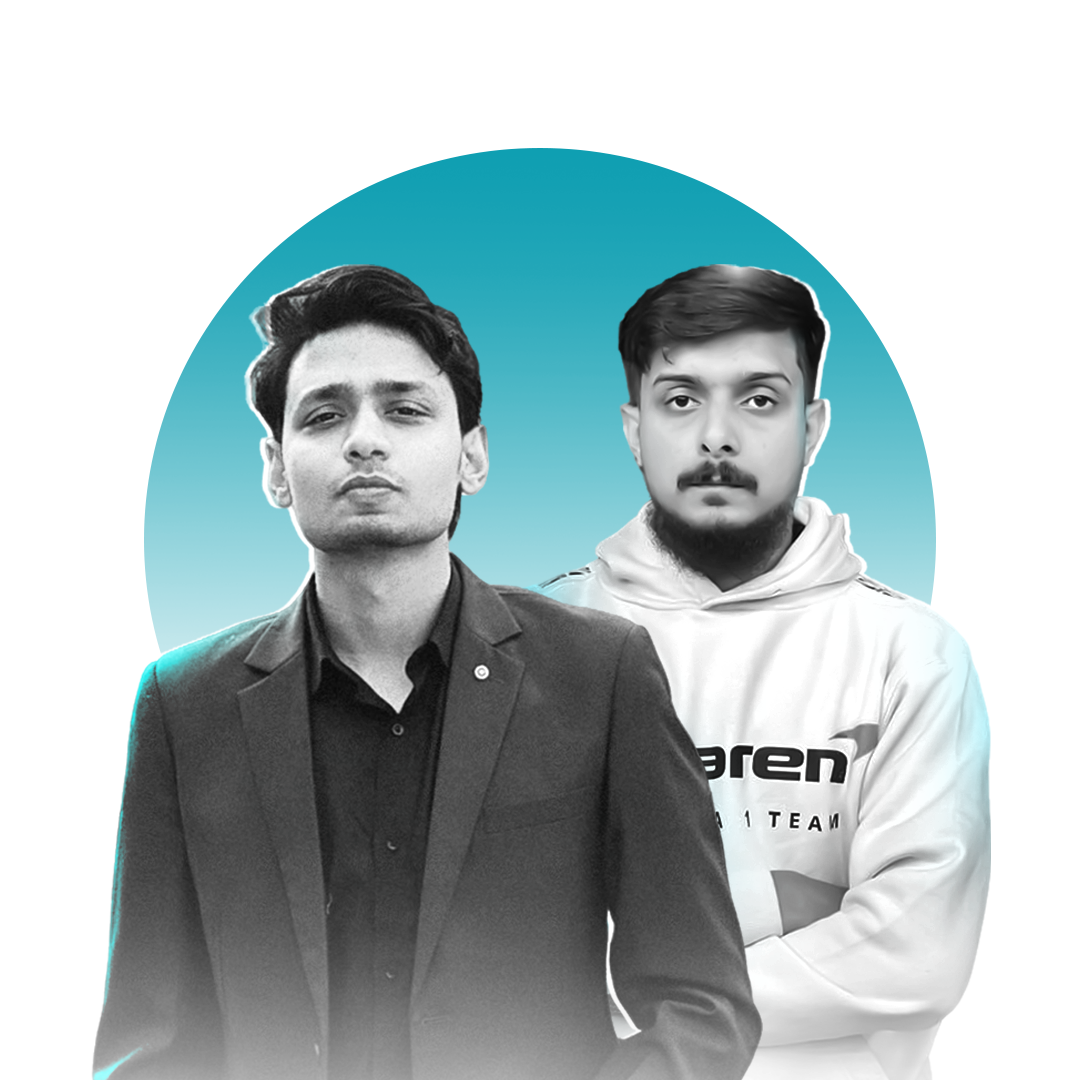
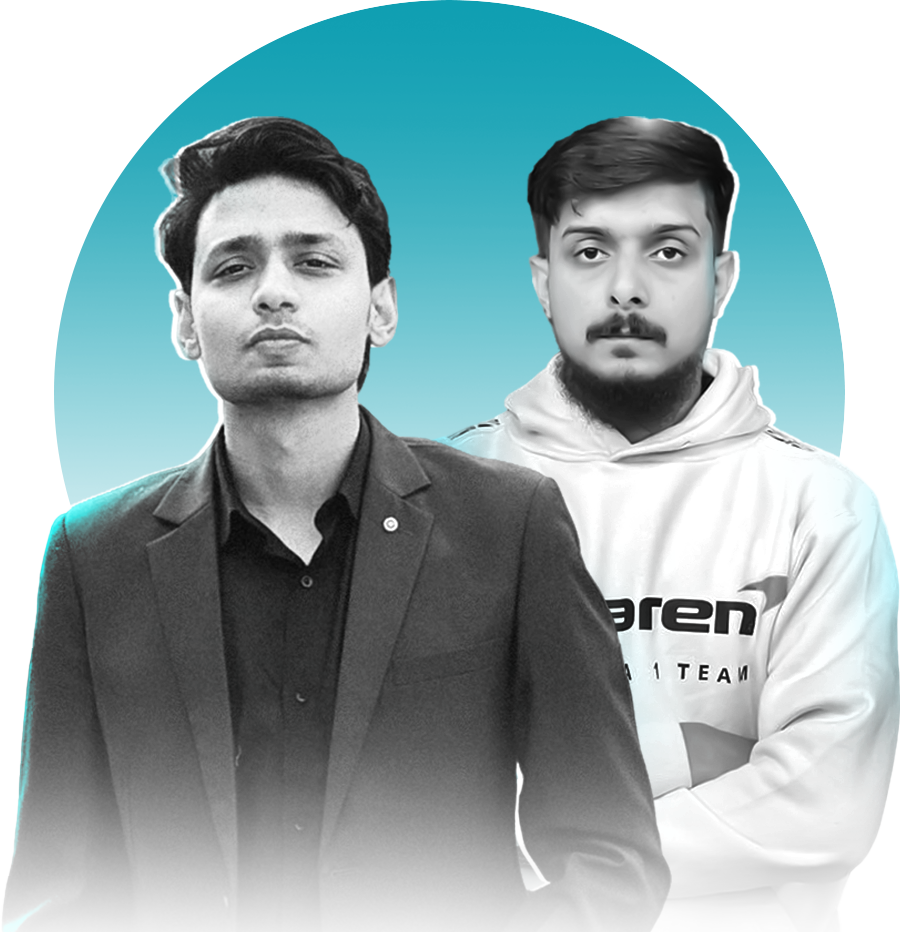
fixes

diff --git a/app/about-us/page.tsx b/app/about-us/page.tsx
@@ -15,7 +15,7 @@ export default function AboutUsPage() {
       name: "HA Lodhii",
       role: "Founder & CEO",
       img: "/her.png",
-      remark: "Leads product vision and client strategy end-to-end.", 
+      remark: "Leads product vision and client strategy end-to-end.",
     },
     {
       name: "Sohaib Tahir",
@@ -64,7 +64,7 @@ export default function AboutUsPage() {
 
   return (
     <>
-    <main style={{ minHeight: "100vh", backgroundColor: "transparent", color: "#0a0a0a" }}>
+      <main style={{ minHeight: "100vh", backgroundColor: "transparent", color: "#0a0a0a" }}>
         <section
           style={{
             position: "relative",
@@ -74,43 +74,43 @@ export default function AboutUsPage() {
             overflow: "hidden"
           }}
         >
-          <motion.div 
+          <motion.div
             animate={{ y: ["-50%", "-62%", "-50%"] }}
             transition={{ duration: 4.5, repeat: Infinity, ease: "easeInOut" }}
-            style={{ 
-              position: "absolute", 
-              left: "2%", 
-              top: "55%", 
+            style={{
+              position: "absolute",
+              left: "2%",
+              top: "55%",
               zIndex: 1,
               pointerEvents: "none",
               opacity: 0.9
             }}
           >
-            <Image 
-              src="/object1.png" 
-              alt="Floating shape left" 
-              width={150} 
-              height={150} 
+            <Image
+              src="/object1.png"
+              alt="Floating shape left"
+              width={150}
+              height={150}
               style={{ objectFit: "contain" }}
             />
           </motion.div>
-          <motion.div 
+          <motion.div
             animate={{ y: ["-50%", "-38%", "-50%"] }}
             transition={{ duration: 5, repeat: Infinity, ease: "easeInOut" }}
-            style={{ 
-              position: "absolute", 
-              right: "2%", 
-              top: "40%", 
+            style={{
+              position: "absolute",
+              right: "2%",
+              top: "40%",
               zIndex: 1,
               pointerEvents: "none",
               opacity: 0.9
             }}
           >
-            <Image 
-              src="/object2.png" 
-              alt="Floating shape right" 
-              width={160} 
-              height={160} 
+            <Image
+              src="/object2.png"
+              alt="Floating shape right"
+              width={160}
+              height={160}
               style={{ objectFit: "contain" }}
             />
           </motion.div>
@@ -235,28 +235,29 @@ export default function AboutUsPage() {
                   onMouseLeave={() => setHoveredMember(null)}
                   style={{
                     position: "relative",
-                    borderRadius: "20px",
-                    overflow: "hidden",
-                    aspectRatio: "3 / 3.5",
+                    borderRadius: "24px",
                     maxWidth: "260px",
                     margin: "0 auto",
                     width: "100%",
-                    backgroundColor: "#0a0a0a",
+                    backgroundColor: "#ffffff",
+                    border: "1px solid #eef0f3",
                     cursor: "default",
+                    padding: "10px",
                     boxShadow: isHovered
-                      ? "0 24px 40px -12px rgba(0,0,0,0.35)"
-                      : "0 4px 12px -4px rgba(0,0,0,0.08)",
-                    transform: isHovered ? "translateY(-6px)" : "translateY(0px)",
-                    transition: "transform 0.35s cubic-bezier(0.22, 1, 0.36, 1), box-shadow 0.35s ease"
+                      ? "0 20px 32px -14px rgba(15,23,42,0.16)"
+                      : "0 1px 2px rgba(15,23,42,0.04)",
+                    transform: isHovered ? "translateY(-4px)" : "translateY(0px)",
+                    transition: "transform 0.55s cubic-bezier(0.22, 1, 0.36, 1), box-shadow 0.55s ease"
                   }}
                 >
-                  <div style={{ position: "absolute", inset: 0, backgroundColor: "#e2e8f0", zIndex: 1 }} />
+                  {/* IMAGE */}
                   <div
                     style={{
-                      position: "absolute",
-                      inset: 0,
-                      zIndex: 2,
+                      position: "relative",
+                      borderRadius: "16px",
                       overflow: "hidden",
+                      aspectRatio: "1 / 1",
+                      backgroundColor: "#f1f3f6",
                     }}
                   >
                     <Image
@@ -267,93 +268,71 @@ export default function AboutUsPage() {
                       style={{
                         objectFit: "cover",
                         objectPosition: member.position || "50% 15%",
-                        transform: isHovered ? "scale(1.07)" : "scale(1)",
-                        transition: "transform 0.6s cubic-bezier(0.22, 1, 0.36, 1)"
+                        filter: isHovered ? "grayscale(0)" : "grayscale(1)",
+                        transform: isHovered ? "scale(1.04)" : "scale(1)",
+                        transition: "filter 0.7s ease, transform 0.8s cubic-bezier(0.22, 1, 0.36, 1)"
                       }}
                       priority={idx < 2}
                     />
+                    {/* status dot */}
+                    <div
+                      style={{
+                        position: "absolute",
+                        top: "12px",
+                        right: "12px",
+                        width: "8px",
+                        height: "8px",
+                        borderRadius: "50%",
+                        backgroundColor: "#069BAF",
+                        boxShadow: "0 0 0 4px rgba(255,255,255,0.85)",
+                        opacity: isHovered ? 1 : 0,
+                        transform: isHovered ? "scale(1)" : "scale(0.5)",
+                        transition: "opacity 0.25s ease, transform 0.25s ease",
+                      }}
+                    />
                   </div>
-                  <div
-                    style={{
-                      position: "absolute",
-                      inset: 0,
-                      zIndex: 3,
-                      background: isHovered
-                        ? "linear-gradient(to top, rgba(4,10,20,0.94) 0%, rgba(4,10,20,0.55) 45%, rgba(4,10,20,0.05) 75%, rgba(4,10,20,0) 100%)"
-                        : "linear-gradient(to top, rgba(4,10,20,0.82) 0%, rgba(4,10,20,0.15) 55%, rgba(4,10,20,0) 100%)",
-                      transition: "background 0.4s ease",
-                      pointerEvents: "none",
-                    }}
-                  />
-                  <div
-                    style={{
-                      position: "absolute",
-                      top: "16px",
-                      right: "16px",
-                      zIndex: 4,
-                      width: "8px",
-                      height: "8px",
-                      borderRadius: "50%",
-                      backgroundColor: "#069BAF",
-                      opacity: isHovered ? 1 : 0,
-                      transform: isHovered ? "scale(1)" : "scale(0.4)",
-                      transition: "opacity 0.3s ease, transform 0.3s ease",
-                      boxShadow: "0 0 0 4px rgba(6,155,175,0.25)"
-                    }}
-                  />
-                  <div
-                    style={{
-                      position: "absolute",
-                      bottom: 0,
-                      left: 0,
-                      right: 0,
-                      zIndex: 5,
-                      padding: "18px 20px",
-                      textAlign: "left",
-                    }}
-                  >
+
+                  {/* TEXT */}
+                  <div style={{ padding: "16px 6px 10px", textAlign: "left" }}>
                     <h4
                       style={{
                         margin: 0,
-                        fontSize: "18px",
-                        fontWeight: 700,
-                        color: "#ffffff",
+                        fontSize: "16px",
+                        fontWeight: 600,
+                        color: "#0a0a0a",
                         fontFamily: "sans-serif",
                         letterSpacing: "-0.01em",
-                        transform: isHovered ? "translateY(0px)" : "translateY(0px)",
-                        transition: "transform 0.4s ease"
                       }}
                     >
                       {member.name}
                     </h4>
                     <p
                       style={{
-                        margin: "4px 0 0 0",
-                        fontSize: "12px",
-                        fontWeight: 600,
-                        textTransform: "uppercase",
-                        letterSpacing: "0.06em",
-                        color: "#069BAF",
+                        margin: "3px 0 0 0",
+                        fontSize: "12.5px",
+                        fontWeight: 500,
+                        color: isHovered ? "#069BAF" : "#94a3b8",
                         fontFamily: "sans-serif",
+                        transition: "color 0.3s ease",
                       }}
                     >
                       {member.role}
                     </p>
                     <div
                       style={{
-                        maxHeight: isHovered ? "60px" : "0px",
+                        maxHeight: isHovered ? "48px" : "0px",
                         opacity: isHovered ? 1 : 0,
                         overflow: "hidden",
-                        transition: "max-height 0.4s cubic-bezier(0.22, 1, 0.36, 1), opacity 0.3s ease, margin-top 0.4s ease",
+                        transition: "max-height 0.35s cubic-bezier(0.22, 1, 0.36, 1), opacity 0.25s ease, margin-top 0.3s ease",
                         marginTop: isHovered ? "8px" : "0px",
                       }}
                     >
                       <p
                         style={{
                           margin: 0,
-                          fontSize: "12.5px",
+                          fontSize: "12px",
                           lineHeight: 1.5,
-                          color: "rgba(255,255,255,0.8)",
+                          color: "#64748b",
                           fontFamily: "sans-serif",
                           fontWeight: 400,
                         }}

diff --git a/components/HeroSection.tsx b/components/HeroSection.tsx
@@ -35,10 +35,10 @@ export default function HeroSection() {
           transition={{ duration: 0.75, ease: "easeOut" }}
           style={{
             width: '100%',
-            maxWidth: '460px',   // was 580px
-            height: '380px',     // was 510px
-            marginTop: '8px',    // was -20px
-            marginBottom: '-40px', // was -140px
+            maxWidth: '460px',
+            height: '380px',
+            marginTop: '54px', 
+            marginBottom: '-100px',
             position: 'relative',
             zIndex: 1,
             overflow: 'hidden',
@@ -46,13 +46,13 @@ export default function HeroSection() {
         >
           <Image
             src="/hero.png"
-            alt="DevClyst founder"
+            alt="DevClyst founders"
             width={380}
             height={460}
             style={{
               width: '100%',
               height: '100%',
-              objectFit: 'cover',
+              objectFit: 'contain',
               objectPosition: '50% 15%',
               display: 'block',
             }}
@@ -75,7 +75,7 @@ export default function HeroSection() {
             style={{
               fontFamily: "var(--font-clash), sans-serif",
               fontSize: "clamp(52px, 8vw, 96px)",
-              fontWeight: 550,
+              fontWeight: 350, 
               lineHeight: 1.0,
               color: "#0a0a0a",
               margin: 0,
@@ -106,7 +106,7 @@ export default function HeroSection() {
             onMouseEnter={() => setIsExploreHovered(true)}
             onMouseLeave={() => setIsExploreHovered(false)}
             style={{
-              background: isExploreHovered ? "#069BAF" : "#0a0a0a", // Toggles black to green on hover
+              background: isExploreHovered ? "#069BAF" : "#0a0a0a",
               color: "#fff",
               borderRadius: "999px",
               padding: "12px 28px",
@@ -114,7 +114,7 @@ export default function HeroSection() {
               fontWeight: 600,
               textDecoration: "none",
               display: "inline-block",
-              transition: "background-color 0.3s ease", // Makes the transition smooth
+              transition: "background-color 0.3s ease",
             }}
           >
             Let&apos;s Explore